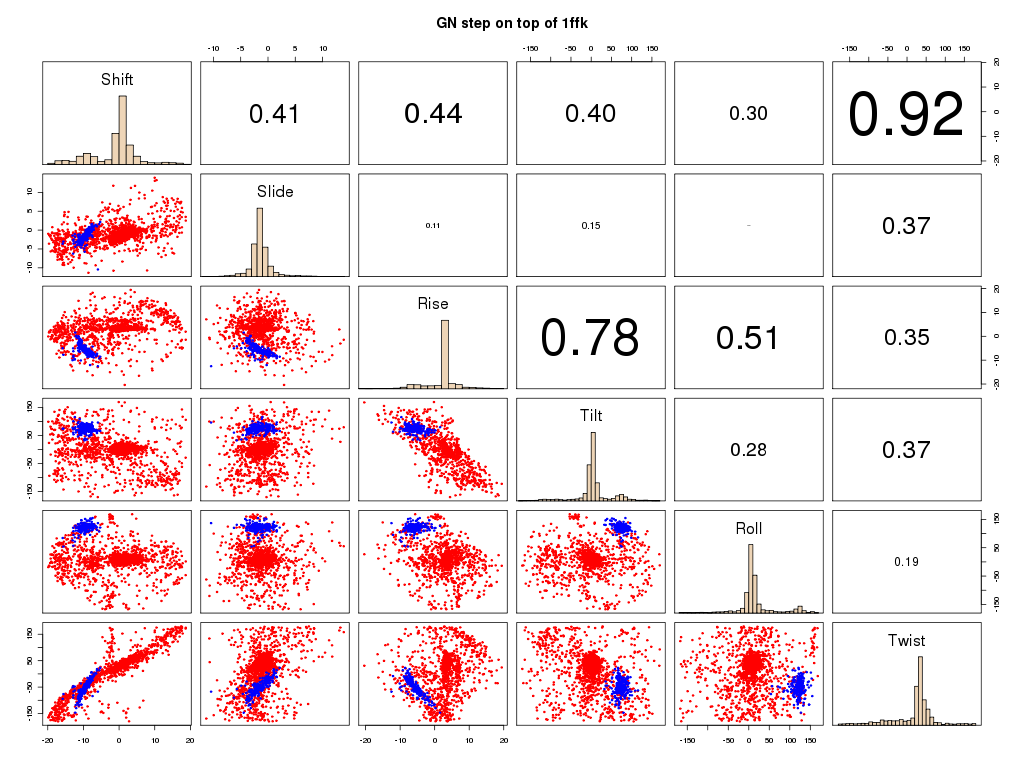
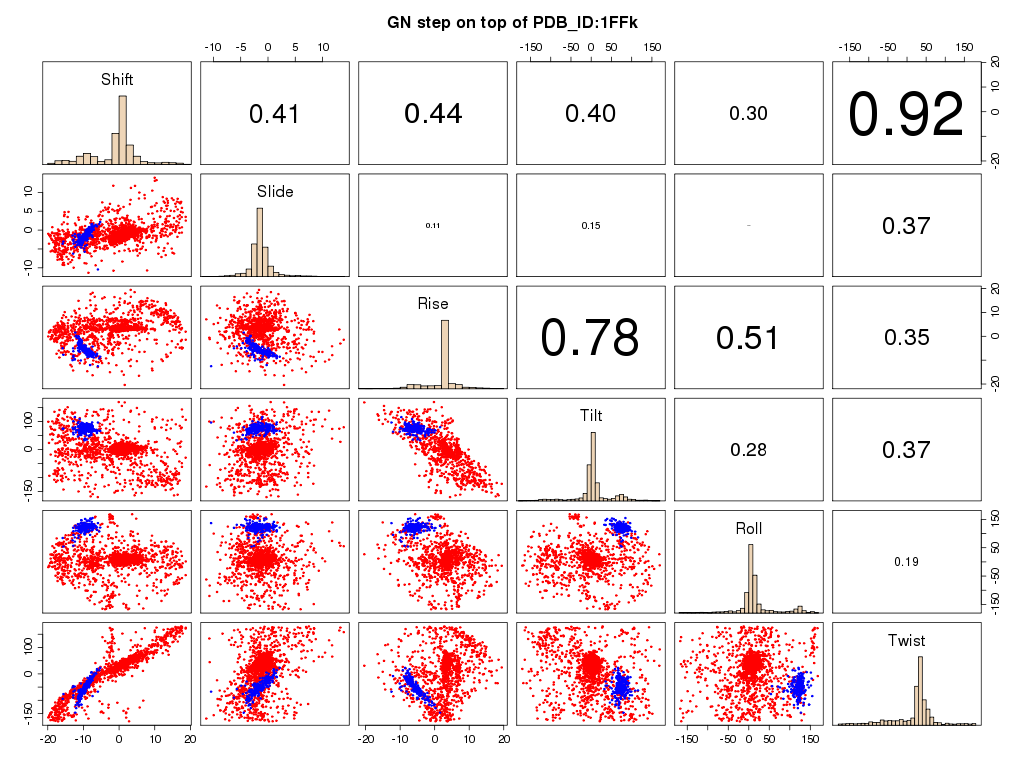
gotta go home

diff --git a/Chapter5/chapter5.tex b/Chapter5/chapter5.tex
@@ -53,7 +53,8 @@ can be seen in Figure \ref{fig:gnrablocks}.
   selected from a non-redundant list of RNA structures provided by the
   RNA  ontology consortium  (ROC)  \cite{leontis2006b}.  The  hydrogen
   bonding  interactions described  by Heus  and  Pardi \cite{heus1991}
-  detected in NMR experiments are shown by black dashed lines.}
+  detected  in NMR  experiments are  shown  by black  and blue  dashed
+  lines.}
 \label{fig:gnrablocks}
 \end{figure}
 
@@ -286,8 +287,8 @@ as the lonepair triloop motif found by sequence covariation techniques
 \cite{lee2003}.  The GNRA motif  candidates found by ``getMotif'' have
 been named recently by Nasalean et al. \cite{nasalean2009} as internal
 and composite motifs.  In our  case the GNRA motif candidates in Group
-I correspond to the internal motifs, and the Group II candidates
-correspond to the composite motifs.
+I  correspond to  the internal  motifs,  and the  Group II  candidates
+correspond to the composite motifs of Nasalean and collaborators.
 
 \begin{figure}
 \centering 
@@ -384,37 +385,53 @@ ribosome.
 
 %\section{Triplets on RNA (comparison to Laing et al.)}
 
-\section{Conclusions}
-We  answer  the questions  at  the begining  of  this  chapter in  the
-following way:
+\section{Results on RNA Motif Recognition via Step-Parameters}
 
-Can   the  geometric  rigid-block   description  of
-base-pairing  and base-stacking  solve the  problem of  defining RNA
-structural motifs?
+We previously asked ourselves if the geometric rigid-block description
+of  base-pairing and  base-stacking could  help define  RNA structural
+motifs.
 
-The  problem of  defining RNA structural  motifs is
-clearly more complicated than what can be understood by anyone
-structural  research   methodology  alone,  such   as  the  backbone
-torsions, or the all-atom fitting.  We have shown
-that  the  rigid-body   parameters  relating  sequential  base-pairs
-facilitate motif searches in RNA atomic structures as well as in
-the rigorous description of structural motifs. We believe
-that this type of characterization should prove useful to the
-community interested in ontological characterization of RNA.
+We  believe that  the problem  of  defining RNA  structural motifs  is
+clearly more complicated than what can be understood by any structural
+research  methodology  alone,  such  as  those based  on  analysis  of
+backbone  torsions,  or all-atom  fitting.   We  have  shown that  the
+rigid-body  parameters  relating  sequential  bases  facilitate  motif
+searches  in  RNA  atomic  structures  as  well  as  in  the  rigorous
+description of structural  motifs. It has also been  shown in previous
+work  on  RNA  in   the  Olson  group  \cite{yurongthesis},  that  the
+rigid-body parameters  describing RNA base-pairs can help  to find and
+describe novel  RNA tertiary interactions  important for understanding
+the three-dimensional fold of the ribosome, for example, the role that
+the  noncanonical sugar-edge  sugar-edge parallel  G$\cdot$A base-pair
+plays as linker of sequentially  distant regions in the 50S subunit of
+the  ribosome (PDB\_ID:1JJ2), and  it's relation  to known  RNA motifs
+such  as  the   kink-turn  motif.  We  consider  that   this  type  of
+characterizations and  their automation  with simple programs  such as
+``getMotif''  should  prove  useful  to the  community  interested  in
+ontological characterization of RNA.
 
+Yet another specific question we  formulated inquires if we can use
+quantities  derived  from  the  3DNA  software  package  to  make  and
+automatic search  for a known  motif, for example, the  GNRA tetraloop
+motif, and perhaps find unknown motifs?
 
-Can we use quantities derived from the 3DNA software
-package to make and automatic search for a known motif, for example,
-the GNRA tetraloop motif, and perhaps find unknown motifs?
-  
-Yes. by defining seeds from known motifs we can find
-new motifs in  the boundaries of known ones  via base-pairs steps. But
-we  can also  do  other,  yet simpler,  not  as ``precise''  searches,
-e.g. by clustering  the results of base overlaps.  Other searches have
-not  been explored  but could  also be  useful, for  example exploring
-helical  parameters like x-displacement,  y-displacement, inclination,
-tip.} 
+We have found that by defining seeds from known motifs we can find new
+motifs at the boundaries of  these ones through their base-steps.  For
+example, we  started a GNRA  motif search using its  average base-step
+parameters  from the  GNRA's found  in the  23S ribosomal  subunit and
+found a closely related motif which  we have called Group II motif and
+which in turn is part of a composite motif \cite{nasalean2009} that is
+known as the lonepair triloop motif \cite{lee2003}.
 
+We can also  perform other, simpler, but not  as ``precise'' RNA motif
+searches,   e.g.  by   following  the   proposed   cluster  validation
+methodology used in Chapter 2 to find an optimal method for clustering
+other  3DNA-computed  properties of  smaller  dimensionality than  the
+base-step parameters, for example, sequential base overlaps.
+
+Searches of other rigid-body  parameters which have not been explored,
+could also  be useful (such as the  helical parameters x-displacement,
+y-displacement, inclination and tip relating sequential base steps).
 
 \bibliography{biblio}
 
